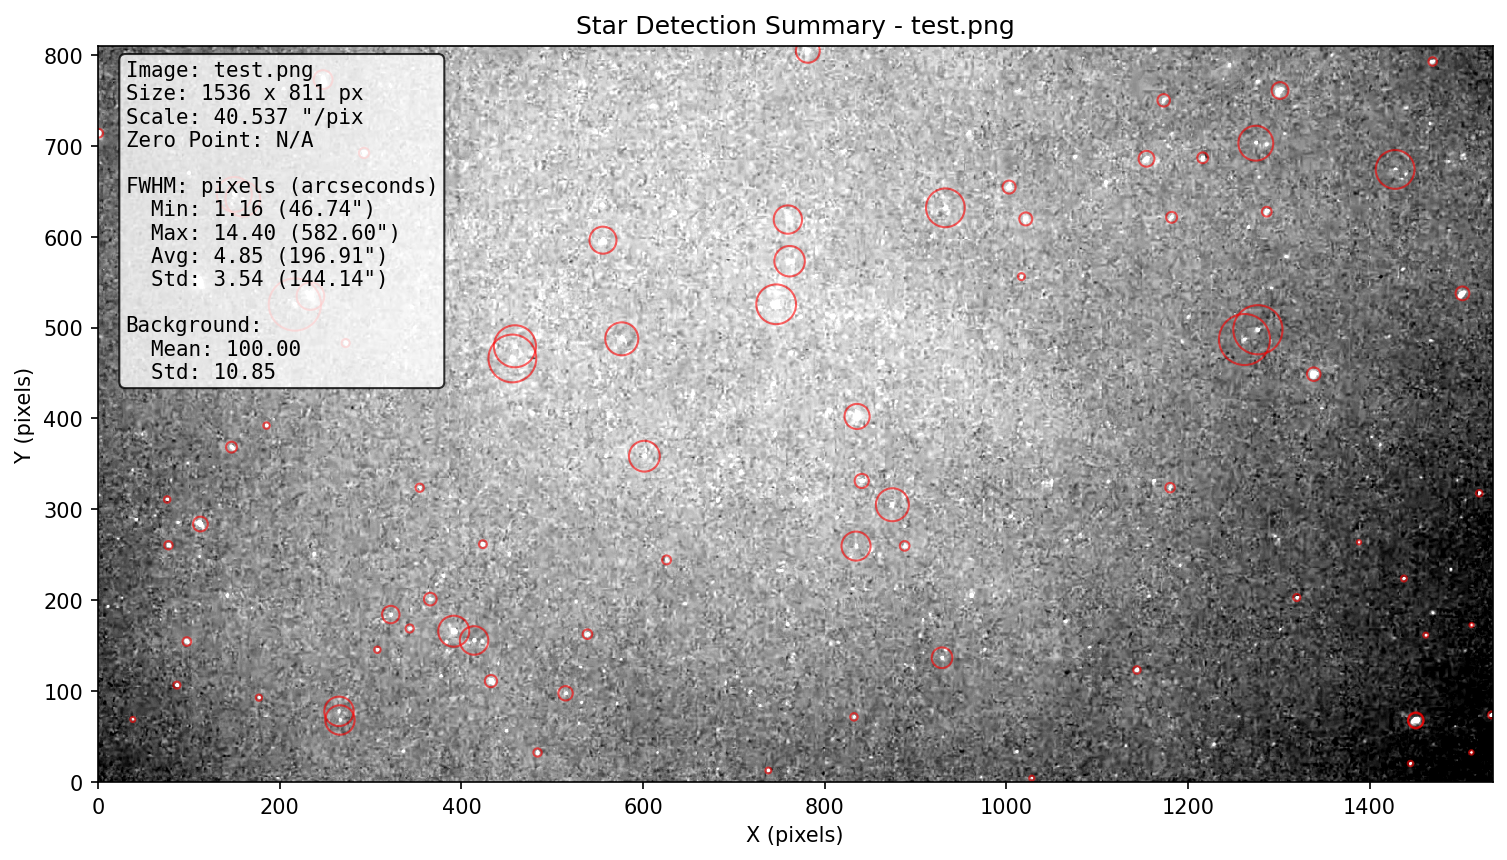
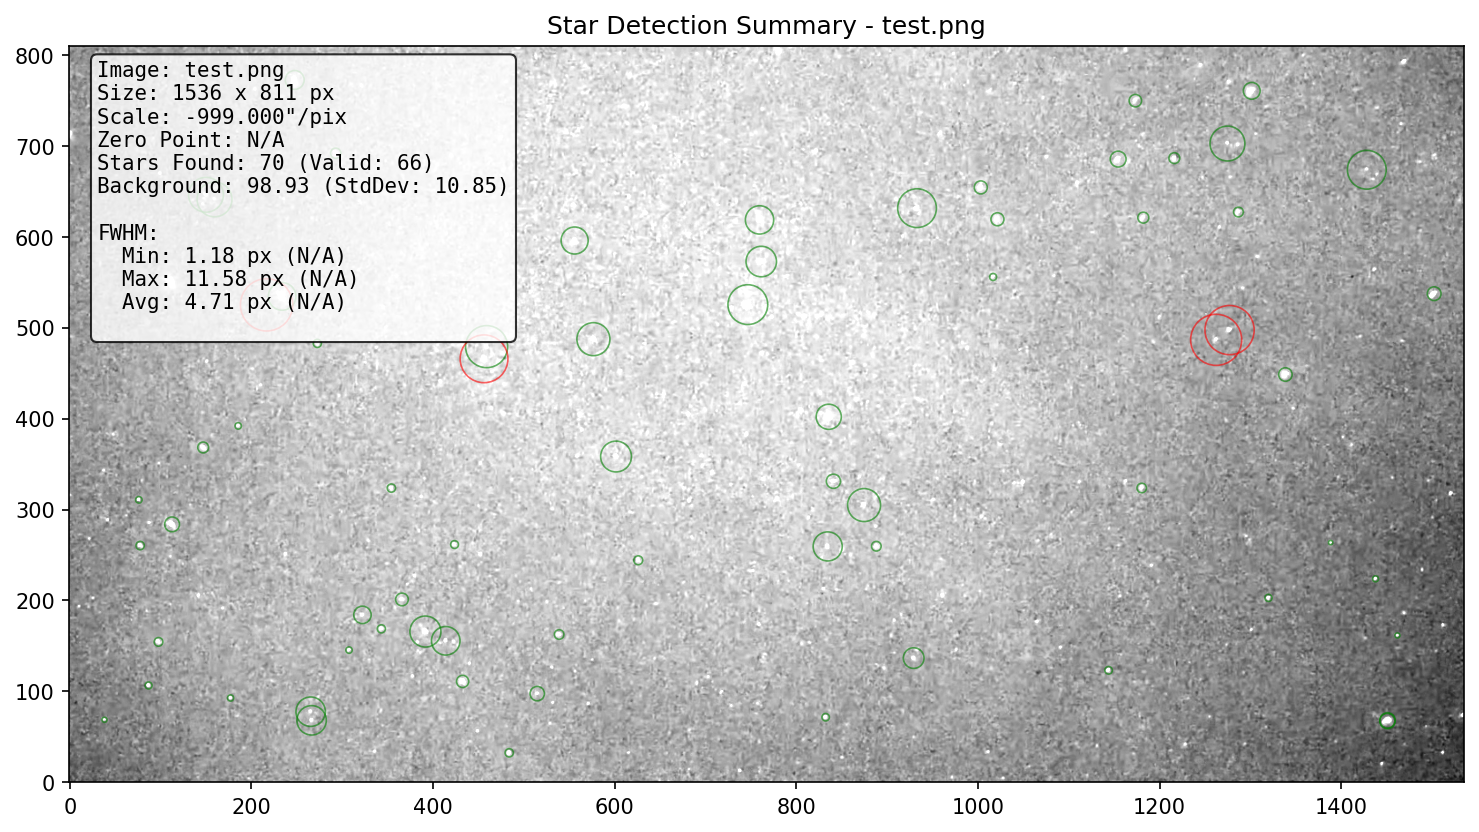
feat: implement file-based locking for astrometry solving and disable astroquery caching to prevent parallel processing conflicts.

diff --git a/star_measure.py b/star_measure.py
@@ -24,6 +24,14 @@ from PIL import Image
 import concurrent.futures
 import multiprocessing
 from mpl_toolkits.axes_grid1 import make_axes_locatable
+import time
+
+# Disable astroquery caching to prevent race conditions during parallel processing
+try:
+    from astroquery import cache_conf
+    cache_conf.cache_active = False
+except ImportError:
+    pass
 
 def safe_pixel_to_world(wcs_obj, x, y):
     """Safely handles WCS pixel_to_world conversions which may return lists of coords for multi-axis FITS."""
@@ -395,6 +403,49 @@ def solve_astrometry_local_cli(image_path, solve_field_path, scale_low=20.0, sca
             
     return None
 
+class SimpleFileLock:
+    def __init__(self, lock_dir=".astrometry_lock", timeout=300):
+        self.lock_dir = lock_dir
+        self.timeout = timeout
+
+    def __enter__(self):
+        printed_waiting = False
+        while True:
+            try:
+                os.mkdir(self.lock_dir)
+                break
+            except FileExistsError:
+                if not printed_waiting:
+                    print("Astrometry solver is currently in use by another process. Waiting for lock...")
+                    printed_waiting = True
+                try:
+                    mtime = os.path.getmtime(self.lock_dir)
+                    if time.time() - mtime > self.timeout:
+                        print(f"Warning: Lock '{self.lock_dir}' appears expired. Cleaning up...")
+                        try:
+                            os.rmdir(self.lock_dir)
+                        except OSError:
+                            pass
+                        continue
+                except OSError:
+                    pass
+                time.sleep(0.5)
+
+    def __exit__(self, exc_type, exc_val, exc_tb):
+        try:
+            os.rmdir(self.lock_dir)
+        except OSError:
+            pass
+
+def serialize_astrometry(func):
+    from functools import wraps
+    @wraps(func)
+    def wrapper(*args, **kwargs):
+        with SimpleFileLock():
+            return func(*args, **kwargs)
+    return wrapper
+
+@serialize_astrometry
 def solve_astrometry(image_path, sources=None, width=None, height=None, api_key=None, scale_low=20.0, scale_high=50.0):
     """Solves astrometry using local astrometry.net if available, falling back to remote."""
     import shutil
@@ -407,8 +458,8 @@ def solve_astrometry(image_path, sources=None, width=None, height=None, api_key=
         if sources is not None and len(sources) > 0:
             num_sources = min(len(sources), 100)
             sorted_indices = np.argsort(sources['peak'])[::-1]
-            x_sorted = sources['xcentroid'].values[sorted_indices][:num_sources]
-            y_sorted = sources['ycentroid'].values[sorted_indices][:num_sources]
+            x_sorted = np.asarray(sources['xcentroid'])[sorted_indices][:num_sources]
+            y_sorted = np.asarray(sources['ycentroid'])[sorted_indices][:num_sources]
             stars = np.column_stack((x_sorted, y_sorted))
             
             print("Attempting local solve using python 'astrometry' package...")
@@ -501,8 +552,8 @@ def solve_astrometry(image_path, sources=None, width=None, height=None, api_key=
                 
                 print(f"Submitting top {num_sources} sources to Astrometry...")
                 sorted_indices = np.argsort(sources['peak'])[::-1]
-                x_sorted = sources['xcentroid'].values[sorted_indices][:num_sources]
-                y_sorted = sources['ycentroid'].values[sorted_indices][:num_sources]
+                x_sorted = np.asarray(sources['xcentroid'])[sorted_indices][:num_sources]
+                y_sorted = np.asarray(sources['ycentroid'])[sorted_indices][:num_sources]
                 
                 wcs_header = ast.solve_from_source_list(x_sorted, y_sorted, width, height, 
                                                        solve_timeout=300,
